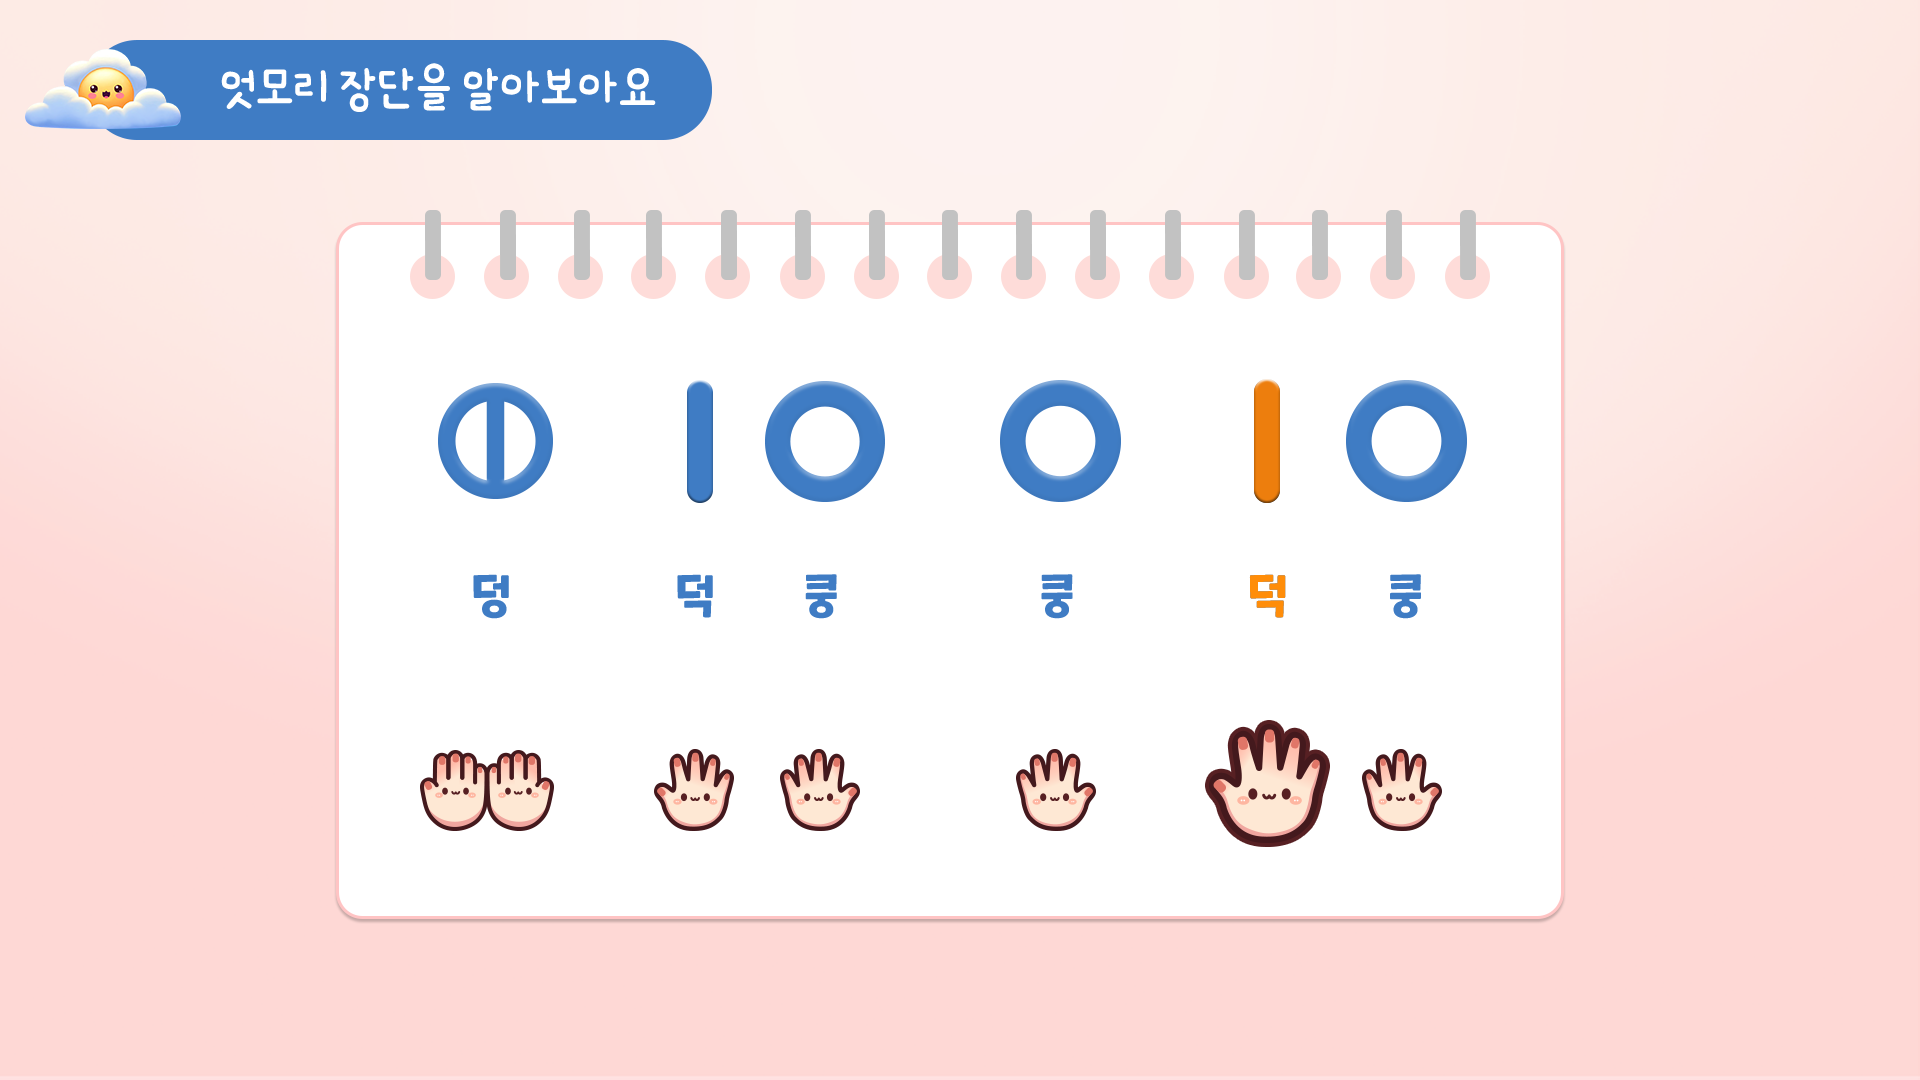
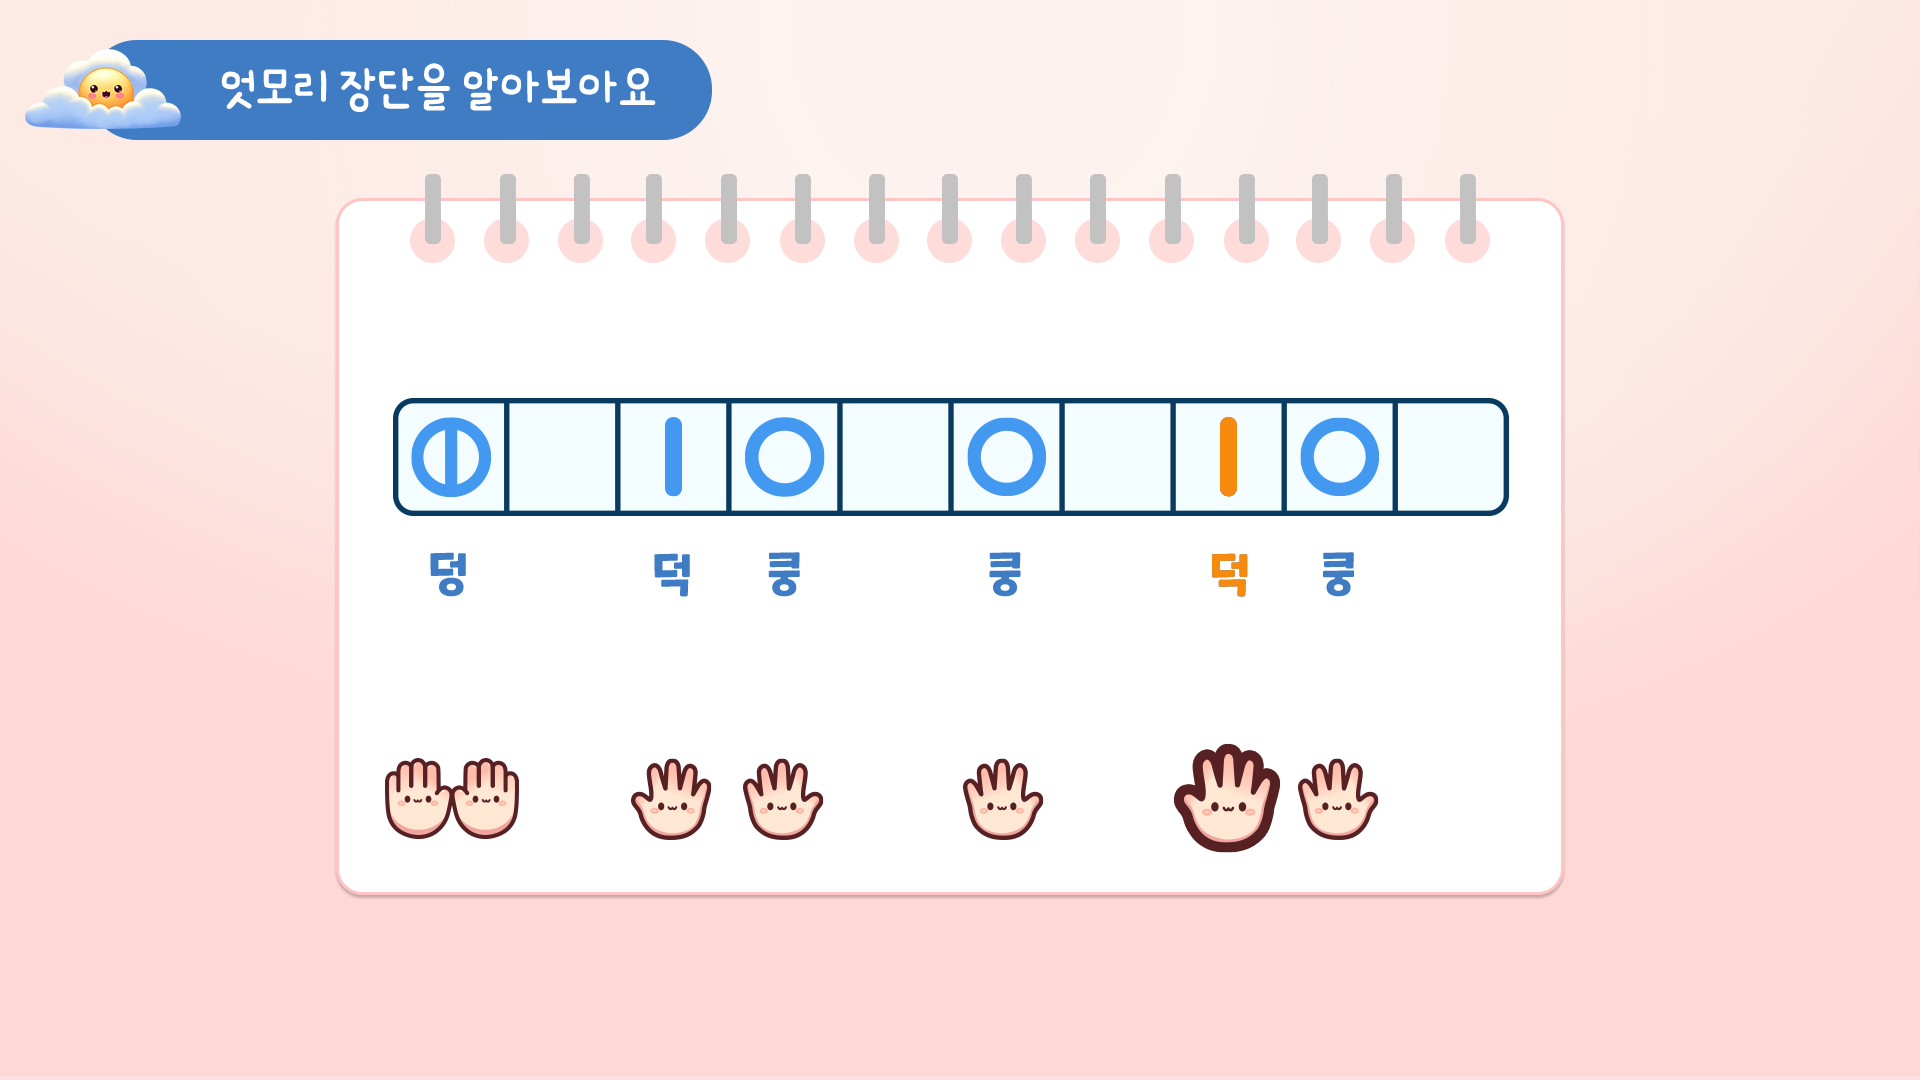
장단 알기 타이밍 및 이미지 수정

diff --git a/jangdan/css/contents.css b/jangdan/css/contents.css
@@ -29,23 +29,23 @@
         background-image: url(../img/content_01/face_01.png);
     }
 
-    20%{
+    12.8%{
         background-image: url(../img/content_01/face_02.png);
     }
 
-    40%{
+    33.5%{
         background-image: url(../img/content_01/face_03.png);
     }
 
-    60%{
+    59.1%{
         background-image: url(../img/content_01/face_04.png);
     }
 
-    70%{
+    69.5%{
         background-image: url(../img/content_01/face_05.png);
     }
 
-    85%{
+    89.7%{
         background-image: url(../img/content_01/face_06.png);
     }
 
@@ -74,23 +74,23 @@
         background-image: url(../img/content_01/hand_01.png);
     }
 
-    20%{
+    12.8%{
         background-image: url(../img/content_01/hand_02.png);
     }
 
-    40%{
+    33.5%{
         background-image: url(../img/content_01/hand_03.png);
     }
 
-    60%{
+    59.1%{
         background-image: url(../img/content_01/hand_04.png);
     }
 
-    70%{
+    69.5%{
         background-image: url(../img/content_01/hand_05.png);
     }
 
-    85%{
+    89.7%{
         background-image: url(../img/content_01/hand_06.png);
     }
 

diff --git a/minyo/css/contents.css b/minyo/css/contents.css
@@ -229,7 +229,6 @@
     right:0;
 }
 
-
 /* select-02 */
 .select-02 {
     display: flex;
@@ -238,7 +237,6 @@
     background-image: url(../img/content_02/bg.png);
     padding-top:10%;
 }
-
 
 .select-02 .drop{
     position: absolute;
